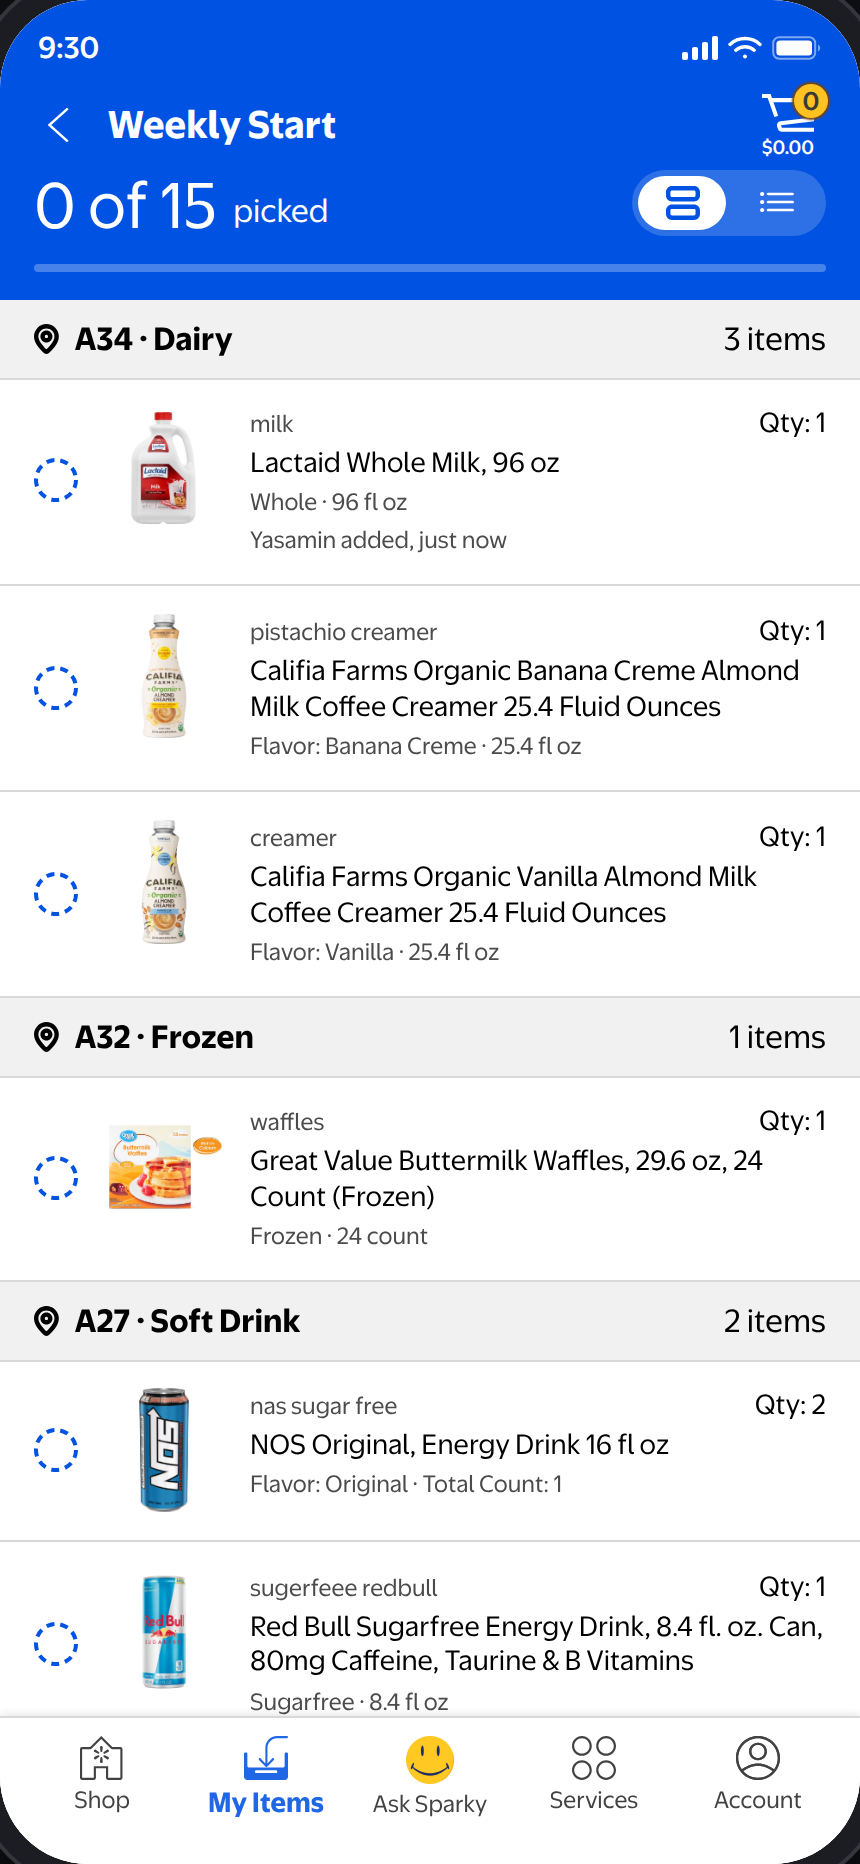
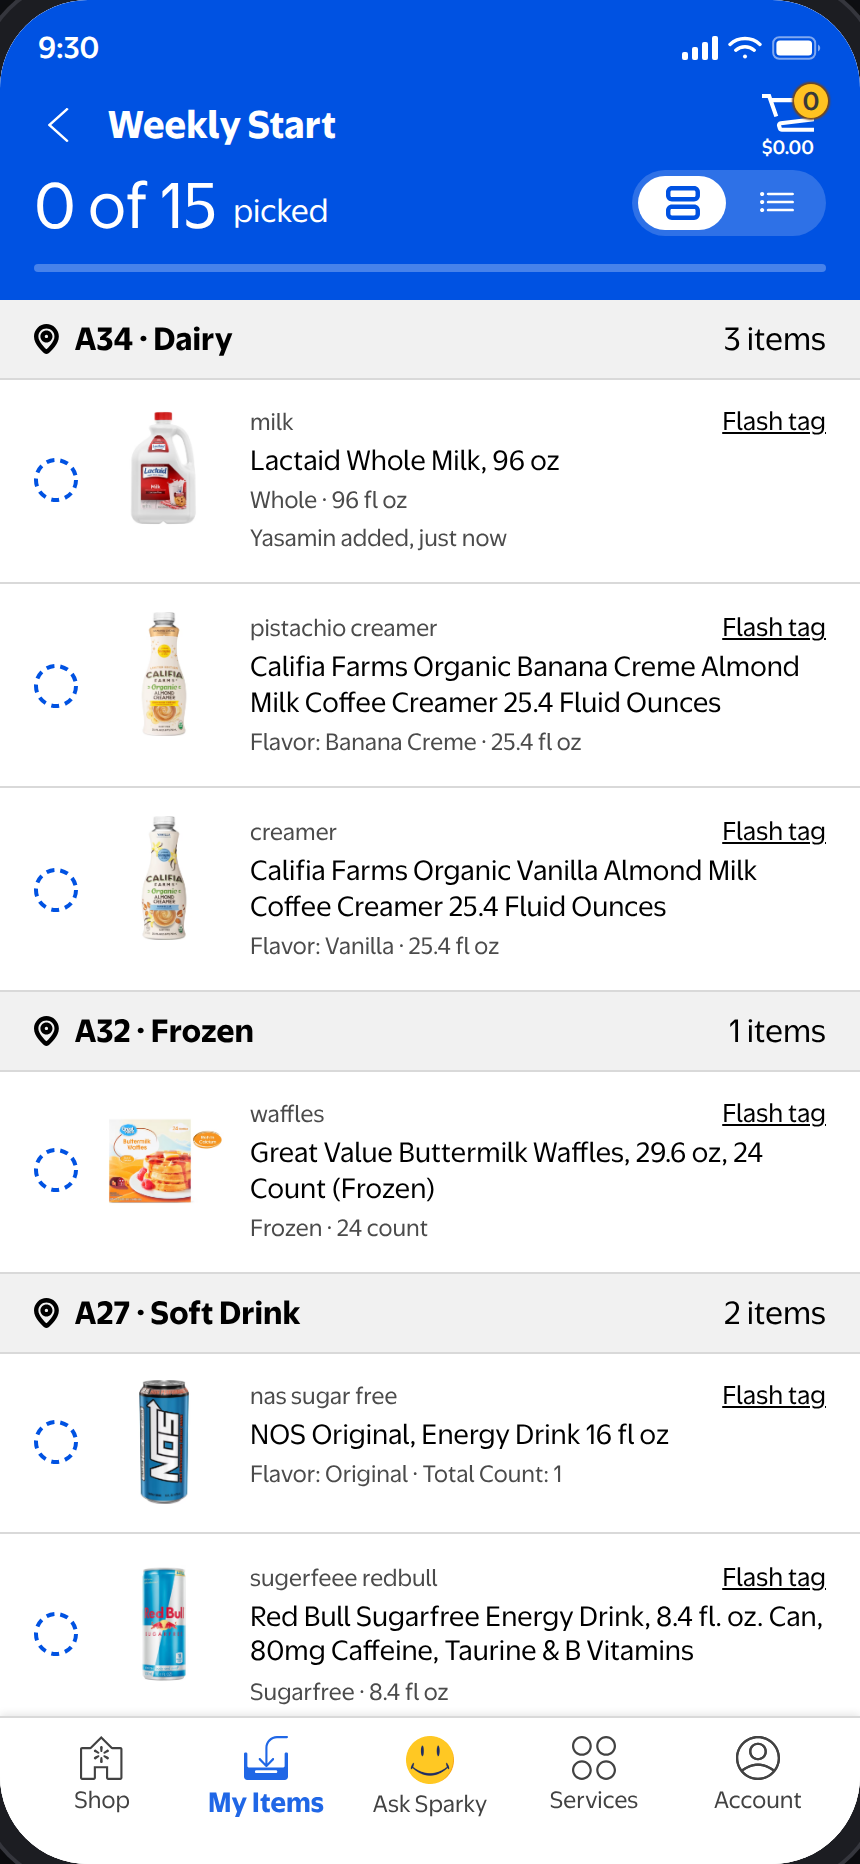
Swap card view's Qty label for a flash tag action
Every card row now carries an underlined Flash tag control where the Qty
count sat, matching the list view's tag but as a real button — claiming
one confirms in place. Also collapsed the duplicate .flashtag rule; the
gold one had been dead, overridden further down the sheet.

diff --git a/app/src/screens/InStore.tsx b/app/src/screens/InStore.tsx
@@ -1,4 +1,4 @@
-import { useMemo } from 'react';
+import { useMemo, useState } from 'react';
 import { useNavigate, useParams } from 'react-router-dom';
 import { StatusBar, TabBar, CartButton, TickRing } from '../components/Chrome';
 import { FigIcon } from '../design/FigIcon';
@@ -148,14 +148,29 @@ function CardRow({ listId, item }: { listId: string; item: LineItem }) {
       <div style={{ flex: 1, minWidth: 0 }}>
         <div style={{ display: 'flex', alignItems: 'baseline', gap: 8 }}>
           <span className="kw">{p.keyword}</span>
-          {/* Qty belongs to card view only; the design's list view has none. */}
-          <span style={{ marginLeft: 'auto', fontSize: 13 }}>Qty: {item.qty}</span>
+          <FlashTag keyword={p.keyword} />
         </div>
         <div className="title">{p.title}</div>
         {p.detail && <div className="detail">{p.detail}</div>}
         {item.addedBy && <div className="detail">{item.addedBy}</div>}
       </div>
     </li>
+  );
+}
+
+/**
+ * Card view's flash-deal action. Underlined like the list view's tag, but this
+ * one is a real control — claiming it confirms in place.
+ */
+function FlashTag({ keyword }: { keyword: string }) {
+  const [claimed, setClaimed] = useState(false);
+  return (
+    <button className="flashtag" aria-pressed={claimed}
+            aria-label={`${claimed ? 'Flash deal claimed on' : 'Claim the flash deal on'} ${keyword}`}
+            onClick={() => setClaimed(c => !c)}
+            style={{ marginLeft: 'auto' }}>
+      {claimed ? 'Flash tag claimed' : 'Flash tag'}
+    </button>
   );
 }
 

diff --git a/app/src/design/tokens.css b/app/src/design/tokens.css
@@ -191,7 +191,6 @@ input:focus, input:focus-visible, .field:focus, .field:focus-visible { outline: 
 .itemrow .price { margin-left: auto; font-size: 15px; font-weight: 700; }
 .itemrow .aisle { display: inline-flex; align-items: center; gap: 5px; font-size: 11px;
                   color: var(--ink-4); margin-top: 6px; text-decoration: underline; }
-.flashtag { font-size: 11px; font-weight: 700; color: var(--wm-gold); }
 
 
 .progressbar { height: 4px; background: rgba(255,255,255,.28); border-radius: 2px; margin: 14px 17px 0; }
@@ -224,4 +223,6 @@ input:focus, input:focus-visible, .field:focus, .field:focus-visible { outline: 
 
 /* The unchecked tick is the design's selection-circle: 22px, 2px, dash 4/3. */
 .tickring { display: block; }
+/* Shared by the in-store list view's tag and card view's flash-deal action. */
 .flashtag { font-size: 12px; color: var(--ink); text-decoration: underline; white-space: nowrap; }
+.flashtag[aria-pressed="true"] { color: var(--green); font-weight: 700; }
